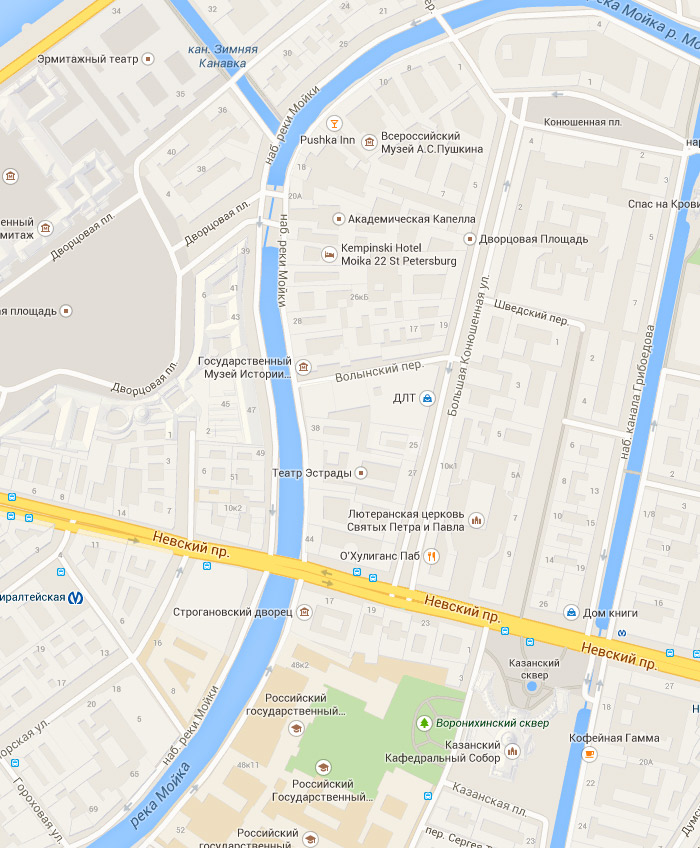
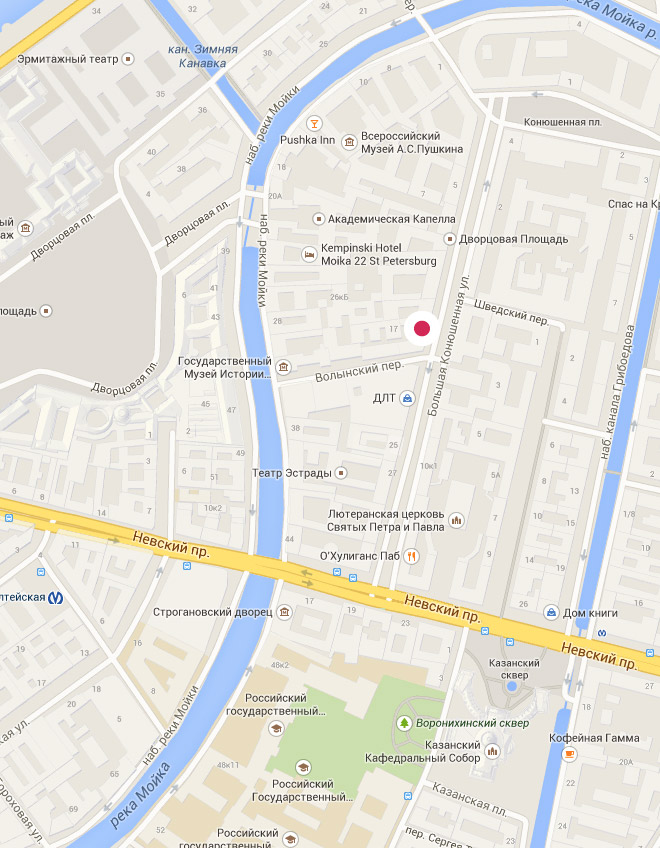
Добавлена Google Карта с контактным адресом

diff --git a/source/index.html b/source/index.html
@@ -381,7 +381,7 @@
       </div>
 
       <!--map-->
-      <div class="contacts__map">
+      <div class="contacts__map" id="map">
         <iframe src="https://www.google.com/maps/embed?pb=!1m18!1m12!1m3!1d1998.6180383255676!2d30.321352243576793!3d59.93848002308582!2m3!1f0!2f0!3f0!3m2!1i1024!2i768!4f13.1!3m3!1m2!1s0x4696310fca145cc1%3A0x42b32648d8238007!2z0JHQvtC70YzRiNCw0Y8g0JrQvtC90Y7RiNC10L3QvdCw0Y8g0YPQuy4sIDE5LzgsINCh0LDQvdC60YIt0J_QtdGC0LXRgNCx0YPRgNCzLCAxOTExODY!5e0!3m2!1sru!2sru!4v1555912509511!5m2!1sru!2sru" frameborder="0" style="border:0" allowfullscreen></iframe>
       </div>
     </section>
@@ -448,5 +448,6 @@
   </footer>
 
   <script src="js/script.min.js"></script>
+  <script src="https://maps.googleapis.com/maps/api/js?key=AIzaSyBhsRLf1JnVfLLoDBnj3jF-U7iBxu3oDWU&callback=mapHandler" async defer></script>
 </body>
 </html>

diff --git a/source/js/utils/mapHandler.js b/source/js/utils/mapHandler.js
@@ -1,0 +1,28 @@
+function mapHandler() {
+  let mapElement = document.querySelector('#map');
+
+  if (mapElement) {
+    let pinkOfficeLatlng = new google.maps.LatLng(59.938794, 30.323082);
+
+    let mapOptions = {
+      center: pinkOfficeLatlng,
+      zoom: 17,
+      mapTypeId: google.maps.MapTypeId.ROADMAP,
+      mapTypeControl: false,
+      streetViewControl: true,
+      streetViewControlOptions: {
+        position: google.maps.ControlPosition.LEFT_BOTTOM
+      }
+    };
+
+    let map = new google.maps.Map(mapElement, mapOptions);
+
+    let markerImage = '../img/icon-map-marker.svg';
+    let marker = new google.maps.Marker({
+      position: pinkOfficeLatlng,
+      map: map,
+      icon: markerImage,
+      title: 'HTML Academy'
+    });
+  }
+}
